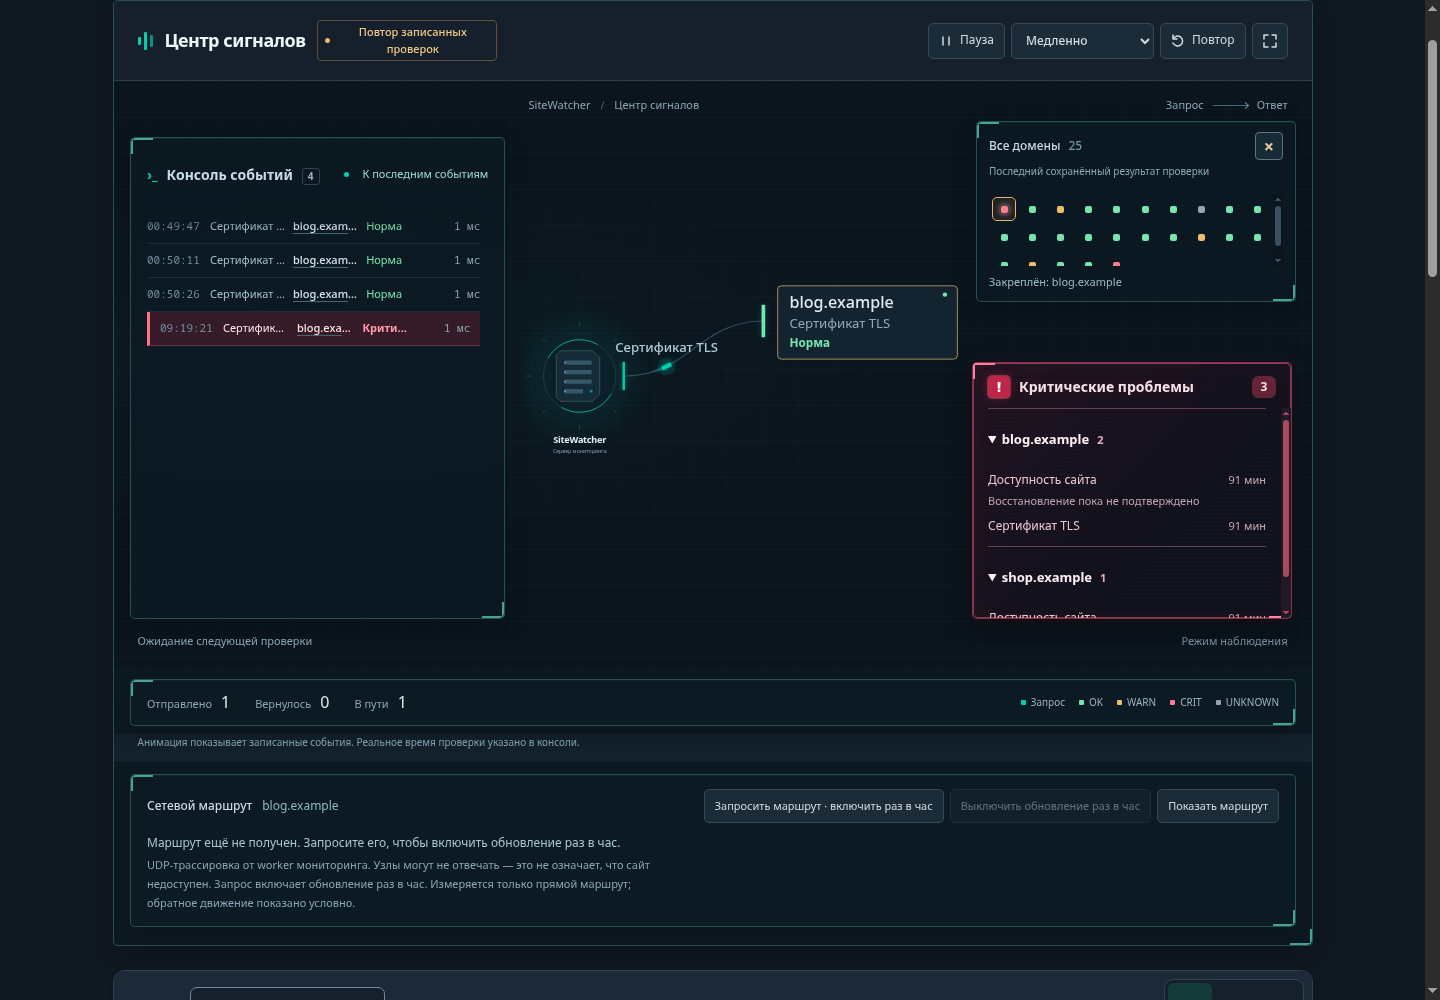
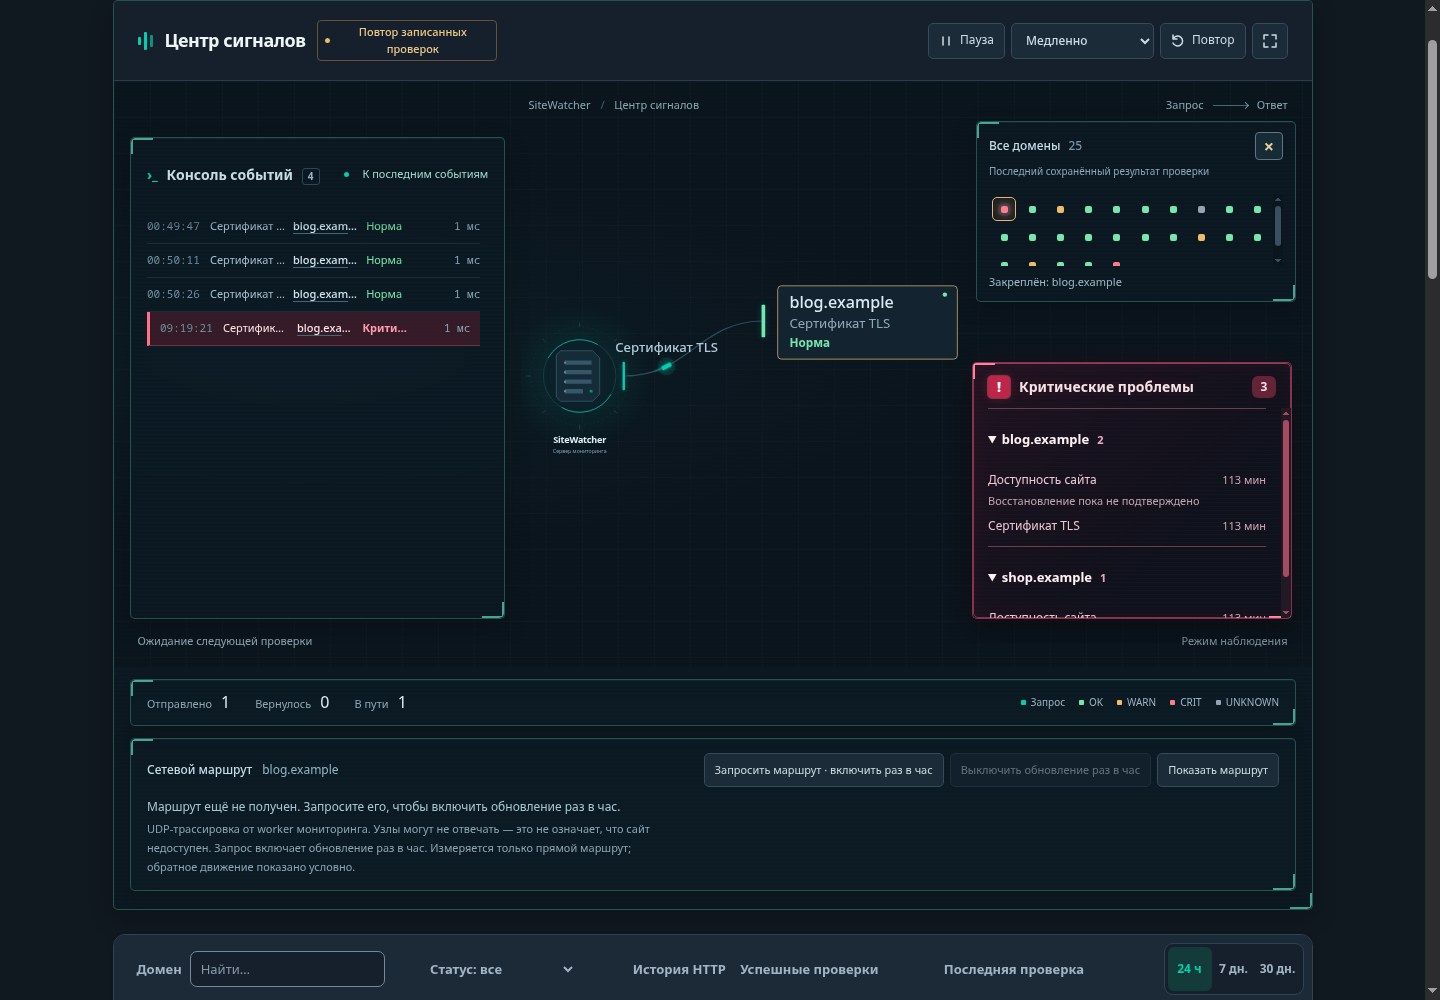
style: remove recorded-animation caption from Signal room

Changed region(s): [[0.0625, 0.806, 0.9375, 1.0], [0.5, 0.744, 0.875, 0.837], [0.0938, 0.713, 0.375, 0.775]]

diff --git a/sitewatcher/webapp/static/sitewatcher/activity.css b/sitewatcher/webapp/static/sitewatcher/activity.css
@@ -151,12 +151,11 @@
   .activity-panel *, .activity-panel *::before, .activity-panel *::after { animation: none !important; transition: none !important; scroll-behavior: auto !important; }
   .scene-pulse, .scene-hub-paddle { filter: none; }
 }
-.activity-playback-note { margin: 0; padding: 0 24px 12px; background: #12212c; color: #88a4b3; font-size: 10px; line-height: 1.6; }
 .activity-scene-overflow { position: absolute; right: 24px; bottom: 44px; color: #8eabb8; font-size: 11px; }
 .activity-console-heading h3 .activity-console-count { display: inline-block; min-width: 18px; margin-inline-start: 5px; margin-inline-end: 0; padding: 0 4px; border: 1px solid #304651; border-radius: 3px; color: #9bb4c1; font-size: 10px; text-align: center; font-variant-numeric: tabular-nums; }
 .scene-node.is-active .scene-node-body { stroke: #508b8d; }
 .scene-node.is-active .scene-node-paddle { filter: drop-shadow(0 0 4px #00cfb044); }
-@media (max-width: 600px) { .activity-playback-note { padding-inline: 16px; } .activity-scene-overflow { right: 16px; } }
+@media (max-width: 600px) { .activity-scene-overflow { right: 16px; } }
 @media (prefers-reduced-motion: reduce) { .scene-node.is-active .scene-node-paddle { filter: none; } }
 
 .activity-panel { margin-bottom: 24px; }
@@ -365,7 +364,6 @@
 .activity-panel.is-expanded .activity-canvas { align-self: stretch; display: flex; align-items: center; }
 .activity-panel.is-expanded .activity-scene { height: 100%; min-height: 350px; }
 .activity-panel.is-expanded .activity-stage > .activity-console .activity-console-scroll { height: auto; }
-.activity-panel.is-expanded .activity-playback-note { padding-bottom: 8px; }
 @media (min-width: 1400px) {
   .activity-stage .activity-map { flex-basis: 150px; }
   .activity-stage > .activity-console { padding-left: 30px; padding-right: 30px; }

diff --git a/sitewatcher/webapp/templates/sitewatcher/partials/activity.html b/sitewatcher/webapp/templates/sitewatcher/partials/activity.html
@@ -108,7 +108,6 @@
             <li><i class="signal-outbound"></i>{% translate 'Probe' %}</li><li><i class="signal-ok"></i>OK</li><li><i class="signal-warn"></i>WARN</li><li><i class="signal-crit"></i>CRIT</li><li><i class="signal-unknown"></i>UNKNOWN</li>
         </ul>
     </div>
-    <p class="activity-playback-note">{% translate 'Animation follows recorded events; probe durations are shown in the log.' %}</p>
     {% if not public_view %}{% include 'sitewatcher/partials/route_controls.html' %}{% endif %}
     <ul class="sr-only" data-activity-accessible aria-label="{% translate 'Latest checks' %}"></ul>
 </section>
